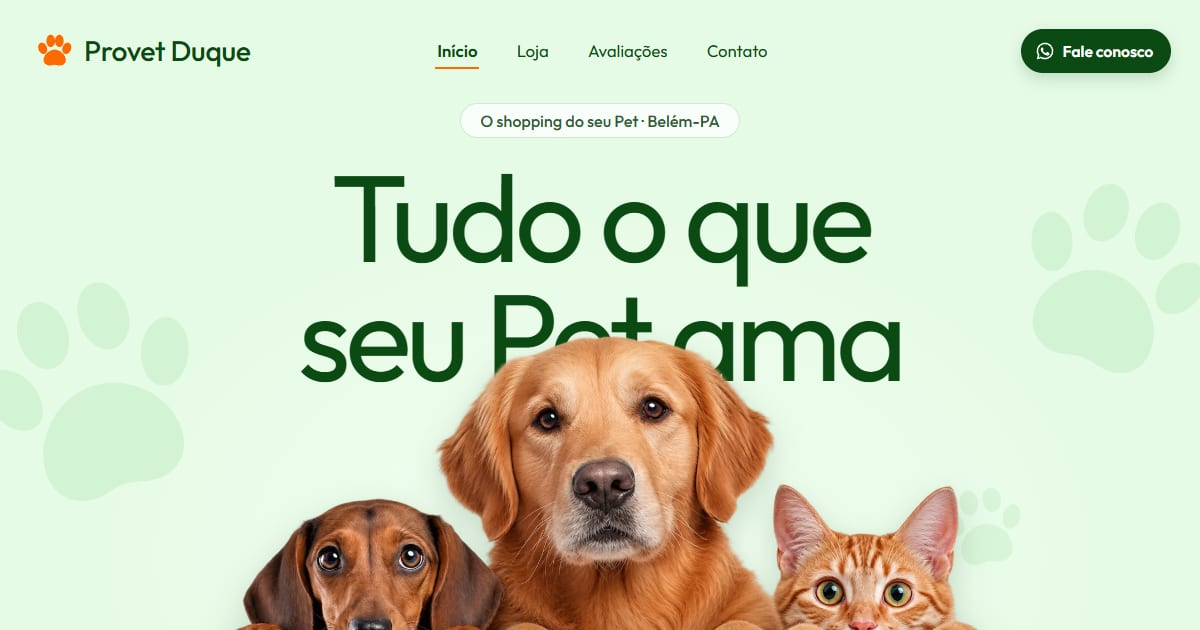
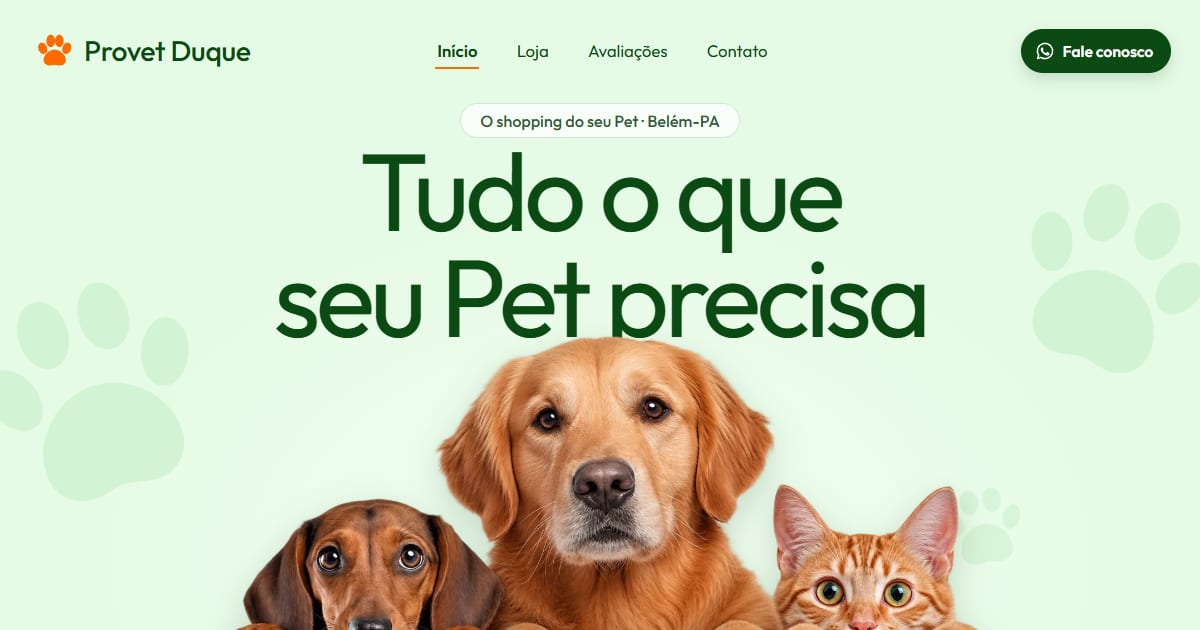
Corrige as patas dos pets na hero do celular e troca o título
No celular, as patas do dachshund e do gato ficavam flutuando acima da
caixa; agora apoiam na borda como no desktop. Título passa a "Tudo o que
seu Pet precisa", com ajuste de tamanho para caber em 360px e para a
cabeça do cachorro não cobrir o texto. Imagem de compartilhamento refeita.

Changed region(s): [[0.2158, 0.2413, 0.7708, 0.6032]]

diff --git a/style.css b/style.css
@@ -108,9 +108,9 @@ body {
 
 /* ---------- título ---------- */
 h1 {
-  position: absolute; left: 0; right: 0; top: 12.8cqw; z-index: 1;
+  position: absolute; left: 0; right: 0; top: 11.2cqw; z-index: 1;
   text-align: center;
-  font-size: 10.3cqw; font-weight: 400; line-height: .9; letter-spacing: -.045em;
+  font-size: 9.2cqw; font-weight: 400; line-height: .9; letter-spacing: -.045em;
   color: var(--green-dark);
 }
 
@@ -164,8 +164,8 @@ h1 {
   .wa-pill { padding: 0 14px 0 12px; font-size: 15px; }
 
   .eyebrow { order: 2; align-self: center; transform: none; margin-top: 6px; font-size: 14px; padding: 6px 14px; }
-  h1 { order: 3; font-size: clamp(44px, 14vw, 80px); padding: 14px 16px 0; position: relative; z-index: 1; }
-  .pets { order: 4; width: 100%; max-width: 560px; margin: -4px auto -34px; position: relative; left: auto; bottom: auto; }
+  h1 { order: 3; font-size: clamp(34px, 11.6vw, 72px); padding: 14px 12px 0; position: relative; z-index: 1; }
+  .pets { order: 4; width: 100%; max-width: 560px; margin: 8px auto max(-15vw, -84px); position: relative; left: auto; bottom: auto; }
 
   .stats { order: 5; display: flex; flex-direction: column; height: auto; }
   .box.light:first-child::before, .box.light:last-child::after { display: none; }

diff --git a/index.html b/index.html
@@ -122,7 +122,7 @@
       <svg class="spark s5" viewBox="0 0 100 100" aria-hidden="true"><use href="#paw"/></svg>
 
       <p class="eyebrow">O shopping do seu Pet · Belém-PA</p>
-      <h1><span class="ln"><span>Tudo o que</span></span><span class="ln"><span>seu Pet ama</span></span></h1>
+      <h1><span class="ln"><span>Tudo o que</span></span><span class="ln"><span>seu Pet precisa</span></span></h1>
 
       <img class="pets" src="assets/pets.webp" width="1552" height="1013" fetchpriority="high" alt="Um dachshund, um golden retriever e um gato espiando por cima da borda">
 
